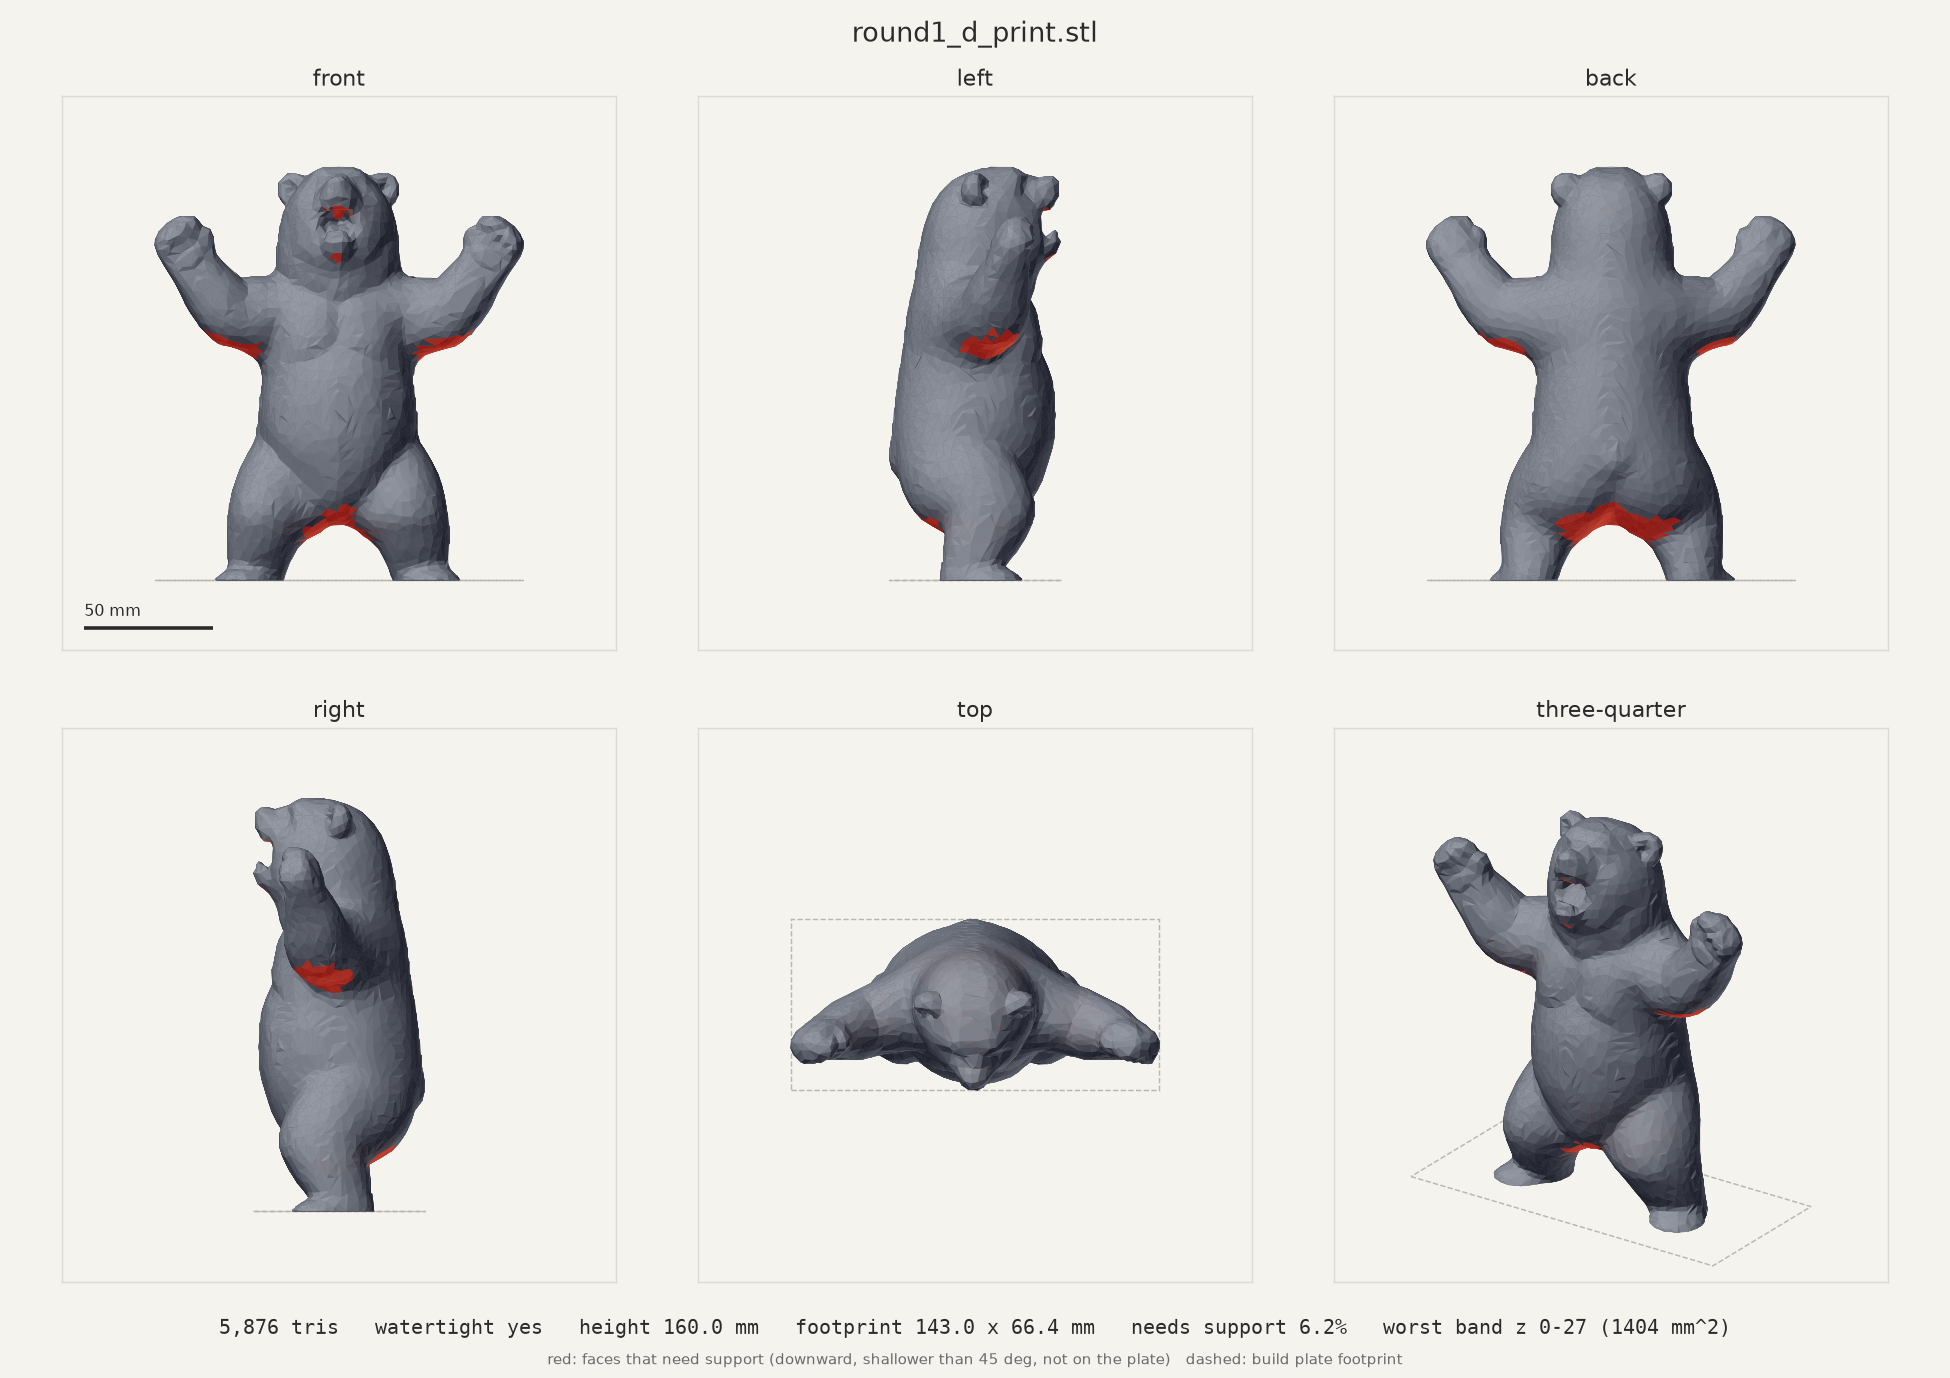
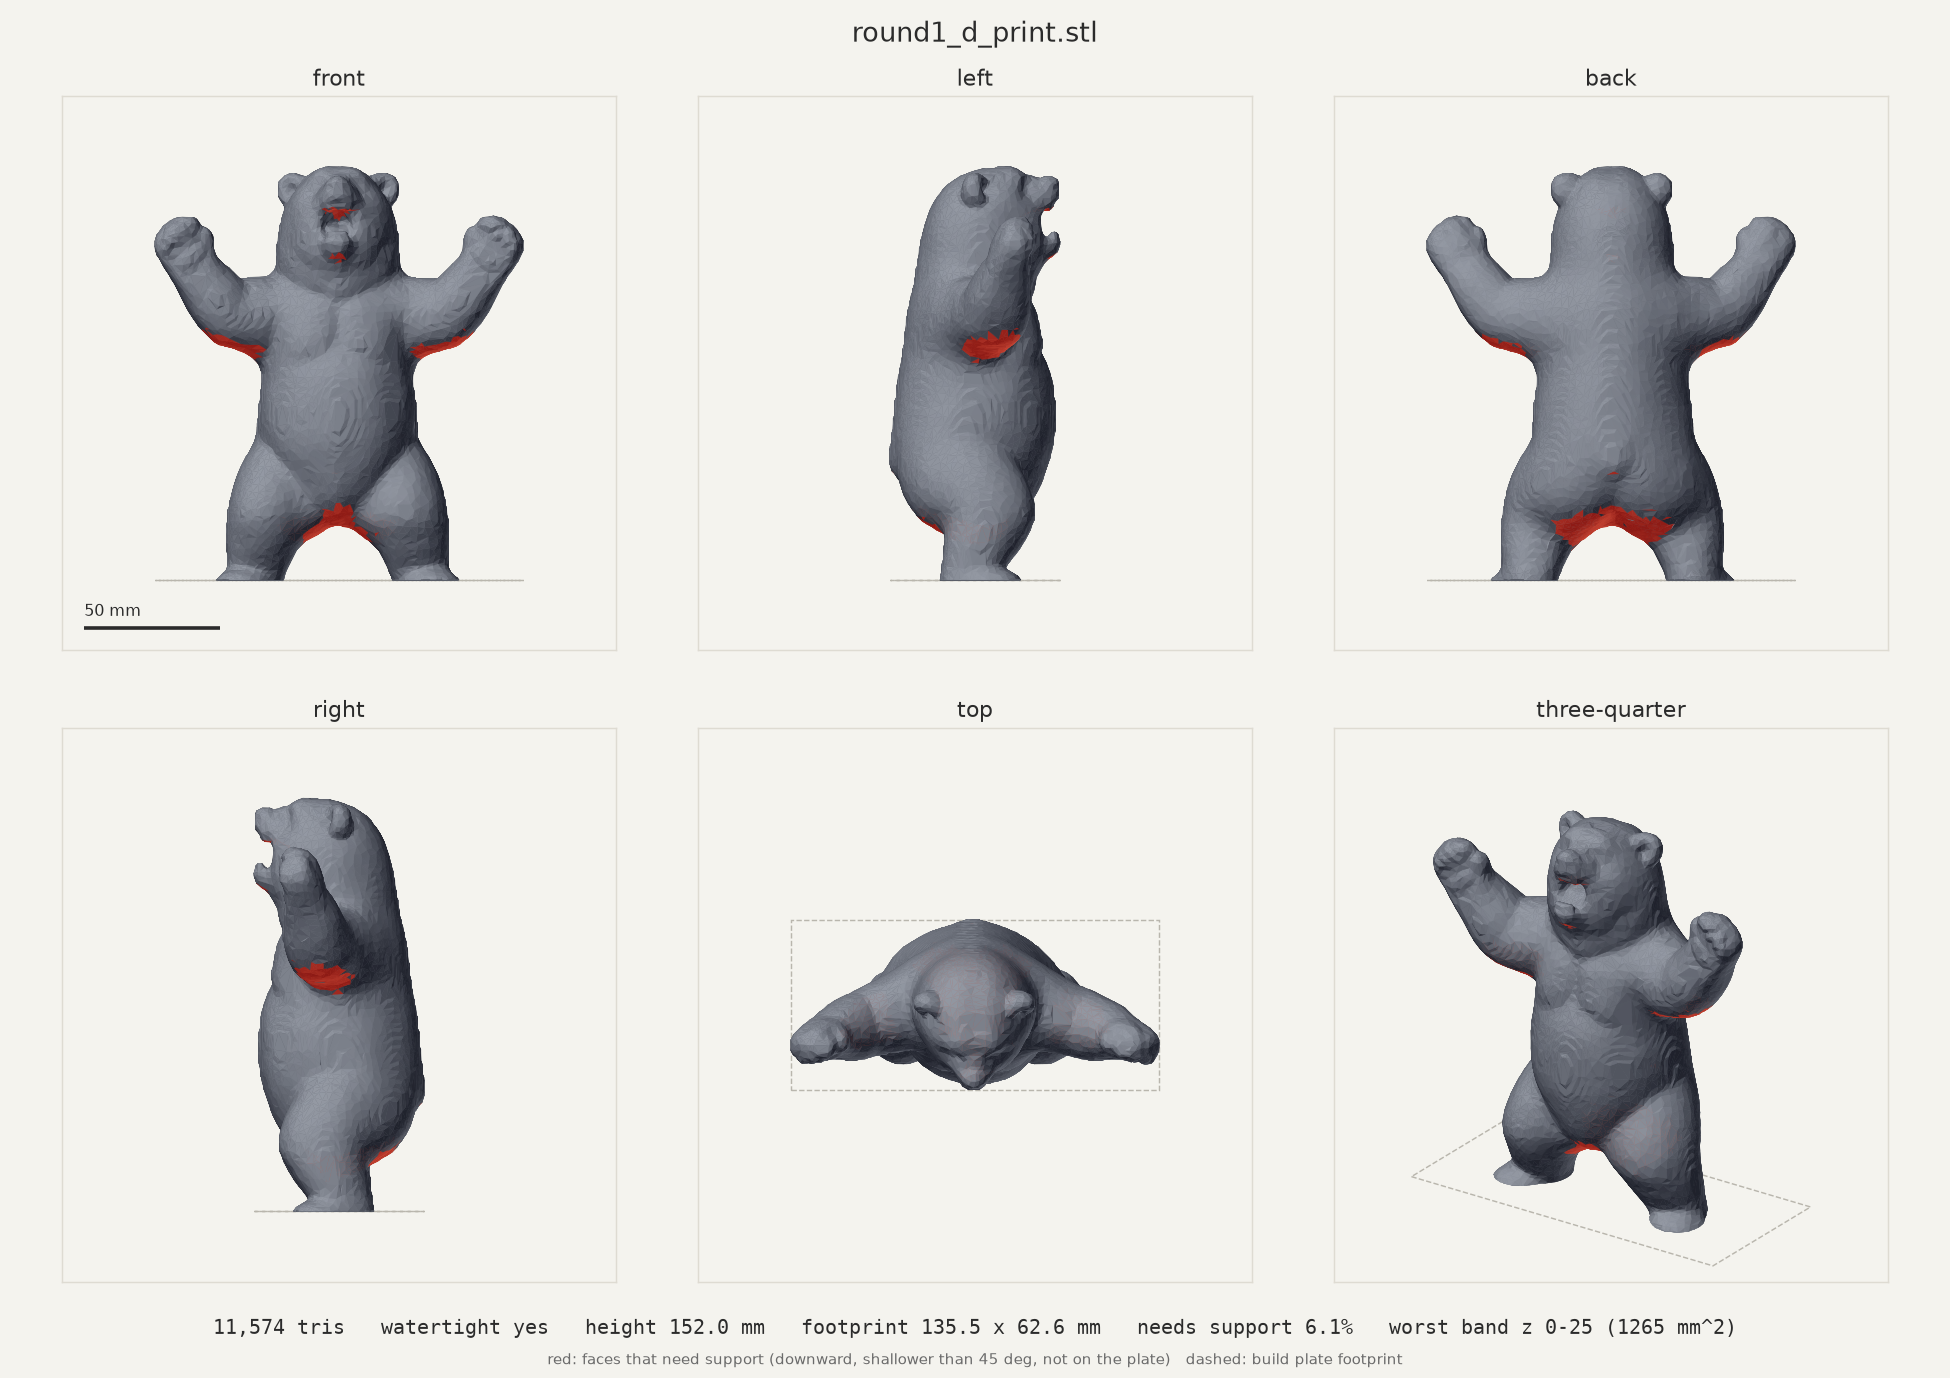
Mesh tools: 12k-face default, degenerate-face fix in voxel remesh, batch tolerates bad files, README→MESH.md
Claude-Session: https://claude.ai/code/session_014gEugCYVrNUDcqZ5JZgWFF

diff --git a/tools/mesh_repair.py b/tools/mesh_repair.py
@@ -34,10 +34,11 @@ Steps, in order, each one reported as it runs:
 Then a before/after table and an STL. Exit code is check_mesh's: 0 if the
 result is watertight with under 5% of its surface needing support.
 
-With --open-base the mesh is scaled to --height plus --base before the cut,
-so the printed part is --height tall. Without --height, --pitch is in the
-file's own units and defaults to the same fraction of the model as 0.6 mm
-is of a 160 mm print.
+With --open-base the bottom --base mm come out of --height: the print is
+--height minus --base tall, with the proportions of a --height bear. Without
+--height, --pitch is in the file's own units and defaults to the same
+fraction of the model as 0.6 mm is of a 160 mm print. A bare --views writes
+the sheet beside the STL.
 
     pip install trimesh manifold3d numpy scipy scikit-image fast_simplification pymeshfix
 """
@@ -53,7 +54,7 @@ import trimesh
 sys.path.insert(0, str(Path(__file__).resolve().parents[1]))
 import check_mesh as cm  # noqa: E402
 
-DEFAULT_FACES = 6000
+DEFAULT_FACES = 12000      # 6000 flattens the open jaw; 12000 keeps it readable
 DEFAULT_BASE = 8.0
 DEFAULT_PITCH = 0.6        # mm at print scale: about one nozzle width
 REFERENCE_HEIGHT = 160.0   # the height DEFAULT_PITCH is quoted at
@@ -165,6 +166,15 @@ def voxel_remesh(mesh, pitch, close=CLOSE_VOXELS):
     del field
     verts = trimesh.transform_points(verts - pad, grid.transform)
     out = trimesh.Trimesh(verts, faces[:, ::-1], process=True)
+    # where the isosurface passes exactly through a grid node, marching cubes
+    # emits coincident vertices; merged, they leave zero-area faces whose
+    # edges are shared 4 or 6 ways and the mesh is no longer watertight
+    n = len(out.faces)
+    out.update_faces(out.nondegenerate_faces())
+    out.update_faces(out.unique_faces())
+    out.remove_unreferenced_vertices()
+    if len(out.faces) != n:
+        log("remesh", f"dropped {n - len(out.faces)} zero-area/duplicate faces from marching cubes")
     if out.body_count > 1:
         parts = sorted(out.split(only_watertight=False), key=lambda p: len(p.faces), reverse=True)
         log("remesh", f"marching cubes produced {len(parts)} shells; kept the largest")
@@ -307,7 +317,7 @@ def table(before, after, openings):
     row("euler", f"{before['euler']}", f"{after['euler']}")
     row("manifold3d", before["manifold"], after["manifold"])
     row("volume", vol(before), vol(after))
-    row("height", f"{before['height']:.1f} mm", f"{after['height']:.1f} mm")
+    row("printed height", f"{before['height']:.1f} mm", f"{after['height']:.1f} mm")
     row("footprint", fp(before), fp(after))
     row("needs support", f"{before['unsupported_pct']:.2f}%", f"{after['unsupported_pct']:.2f}%")
     row("base openings", "-", str(openings) if openings is not None else "-")
@@ -346,12 +356,13 @@ def repair(path, out, faces=DEFAULT_FACES, height=None, base=None, up="auto",
     before = measure_all(mesh, limit)
     log("before", validation_line(validate(mesh)))
 
-    # cut first, then the target height is the height you get
-    work_height = (height + base) if (height and base) else height
+    # the base cut comes out of --height: the print is height - base tall
+    work_height = height
     if height:
         scale_and_place(mesh, work_height)
-        log("scale", f"to {work_height:g} mm"
-                     + (f" ({height:g} + {base:g} mm to be cut off)" if base else ""))
+        log("scale", f"to {height:g} mm"
+                     + (f" (bottom {base:g} mm to be cut off; printed height "
+                        f"{height - base:g} mm)" if base else ""))
     pitch = pitch if pitch is not None else default_pitch(mesh, height)
 
     mesh = largest_component(mesh)
@@ -380,8 +391,8 @@ def repair(path, out, faces=DEFAULT_FACES, height=None, base=None, up="auto",
     after = measure_all(mesh, limit)
     table(before, after, openings)
     if height and base:
-        print(f"\n  note: 'after' was scaled to {work_height:g} mm before the {base:g} mm cut, "
-              f"so it is {100 * base / height:.0f}% larger than 'before' at the same height")
+        print(f"\n  note: printed height is {height:g} - {base:g} = {height - base:g} mm; "
+              f"the base cut comes out of --height, not on top of it")
 
     out = Path(out)
     out.parent.mkdir(parents=True, exist_ok=True)
@@ -412,15 +423,19 @@ def main():
                     help="up axis in the file (auto: y for .glb/.gltf, else z)")
     ap.add_argument("--limit", type=float, default=cm.LIMIT_DEG,
                     help="overhang threshold in degrees")
-    ap.add_argument("--views", help="also render a six-view sheet of the result to this png")
+    ap.add_argument("--views", nargs="?", const="", metavar="PNG",
+                    help="also render a six-view sheet of the result (default: "
+                         "<out>_views.png beside the STL)")
     args = ap.parse_args()
 
     mesh, after, method = repair(args.path, args.out, args.faces, args.height,
                                  args.base if args.open_base else None, args.up,
                                  args.method, args.pitch, args.limit)
-    if args.views:
+    if args.views is not None:
         import mesh_views
-        png, _, _ = mesh_views.render(args.out, args.views, up="z", limit=args.limit)
+        out = Path(args.out)
+        views = args.views or out.with_name(out.stem + "_views.png")
+        png, _, _ = mesh_views.render(str(out), views, up="z", limit=args.limit)
         print(f"wrote {png}\n")
     return 0 if (after["watertight"] and after["unsupported_pct"] < 5.0) else 1
 

diff --git a/tools/mesh_batch.py b/tools/mesh_batch.py
@@ -3,13 +3,17 @@
 mesh_batch.py — check and render every mesh in a directory, then rank them.
 
     python tools/mesh_batch.py outputs/round2
-    python tools/mesh_batch.py outputs/round2 --height 160 --ext glb stl
+    python tools/mesh_batch.py outputs/round2 --height 160 --ext glb
 
 Writes <name>_views.png beside each mesh and <dir>/mesh_report.md with one
 row per mesh — triangles, watertight, height, % needing support, the band
 where the support is — sorted so the most printable candidate is on top.
 Stage 2 produces a pile of these; this is how you pick one without opening
 each in a viewer.
+
+Takes .glb and .stl side by side by default (Y-up and Z-up respectively, via
+check_mesh's auto-detection). A file that fails to load — half-written,
+empty, not a mesh — gets a "failed" row and the batch carries on.
 """
 
 import argparse
@@ -48,8 +52,8 @@ def main():
     ap.add_argument("dir")
     ap.add_argument("--height", type=float, default=160.0,
                     help="scale every mesh to this height in mm before measuring (default 160)")
-    ap.add_argument("--ext", nargs="+", default=["glb"],
-                    help="extensions to include (default: glb)")
+    ap.add_argument("--ext", nargs="+", default=["glb", "stl"],
+                    help="extensions to include (default: glb stl)")
     ap.add_argument("--up", choices=cm.UP_CHOICES, default="auto")
     ap.add_argument("--limit", type=float, default=cm.LIMIT_DEG)
     args = ap.parse_args()
@@ -60,17 +64,21 @@ def main():
     if not files:
         raise SystemExit(f"no {'/'.join(args.ext)} files in {root}")
 
+    # a.glb and a.stl side by side must not overwrite each other's sheet
+    stems = [p.stem for p in files]
     results = []
     for path in files:
         t0 = time.time()
+        tag = f"{path.stem}_{path.suffix.lstrip('.')}" if stems.count(path.stem) > 1 else path.stem
         try:
-            png, info, up = mesh_views.render(path, height=args.height, up=args.up,
-                                              limit=args.limit)
+            png, info, up = mesh_views.render(path, out=path.with_name(tag + "_views.png"),
+                                              height=args.height, up=args.up, limit=args.limit)
             results.append((path.name, info, png, None))
             print(f"{path.name:<40} {info['faces']:>9,} tris  watertight "
                   f"{'yes' if info['watertight'] else 'no ':<3}  support "
                   f"{info['unsupported_pct']:5.1f}%   ({time.time() - t0:.1f} s)")
-        except Exception as e:  # one bad file shouldn't sink the batch
+        except (Exception, SystemExit) as e:  # one bad file shouldn't sink the batch
+            # SystemExit: check_mesh.load raises it for "nothing mesh-shaped"
             results.append((path.name, None, None, f"{type(e).__name__}: {e}"))
             print(f"{path.name:<40} FAILED {type(e).__name__}: {e}")
 

diff --git a/tools/MESH.md b/tools/MESH.md
@@ -30,8 +30,12 @@ The fix is volumetric. Rasterise the shell into a voxel grid, close small
 gaps morphologically, flood-fill the interior to a solid, and pull a fresh
 surface out with marching cubes over the smoothed occupancy field. A
 marching-cubes isosurface of a padded scalar field is closed and manifold by
-construction. manifold3d then confirms it (`NoError`), which is also the bar
-for the base-opening boolean.
+construction, with one caveat the tool handles: where the surface passes
+exactly through a grid node, marching cubes emits coincident vertices that
+merge into zero-area faces, so those are dropped before validation.
+manifold3d then confirms the result (`NoError`), which is also the bar for
+the base-opening boolean. Verified watertight at 140, 150, 160, 170, 180 and
+200 mm.
 
 MeshFix (`--method meshfix`) also produced a valid solid on this mesh, in the
 same time, and keeps the original surface rather than a resampled one. It is
@@ -40,43 +44,43 @@ its guarantee does not depend on the input.
 
 ## Result on round1_d
 
-`python tools/mesh_repair.py outputs/scratch/mesh_round1_d.glb --out outputs/stage3_print/round1_d/round1_d_print.stl --height 160 --open-base`
+`python tools/mesh_repair.py outputs/scratch/mesh_round1_d.glb --out outputs/stage3_print/round1_d/round1_d_print.stl --height 160 --open-base --views`
 
-| | before | after (voxel, 0.6 mm, 6000 faces) |
+| | before | after (voxel 0.6 mm, 12,000 faces, base cut) |
 |---|---|---|
-| faces | 271,556 | 5,876 |
+| faces | 271,556 | 11,574 |
 | bodies | 1 (+873 debris) | 1 |
 | watertight / winding | no / no | yes / yes |
 | Euler | 349 | 2 |
 | manifold3d | NotManifold | NoError |
-| volume | n/a (open) | 404.6 cm³ |
-| height | 160.0 mm | 160.0 mm |
-| footprint | 135.9 × 62.7 mm | 143.0 × 66.4 mm (scaled 5% up before the 8 mm cut) |
-| needs support | 8.72 % | 6.16 %, worst band z 0–27 mm |
-| base openings | – | 2 (one per foot, ≈ 26 × 31 mm) |
+| volume | n/a (open) | 348.7 cm³ |
+| printed height | 160.0 mm | 152.0 mm (160 − 8 mm cut) |
+| footprint | 135.9 × 62.7 mm | 135.5 × 62.6 mm |
+| needs support | 8.72 % | 6.15 %, worst band z 0–25 mm |
+| base openings | – | 2 (one per foot, ≈ 25 × 30 mm) |
 
-Runs in about 8 s. The support that remains is the underarms, the crotch and
+Runs in about 8 s. The support that remains is the crotch, the underarms and
 the underside of the muzzle; the sheet tints those faces red. The 5 % gate is
 not met yet; that is a pose question, not a repair question.
 
 ## Defaults and what they cost
 
 - **Pitch 0.6 mm** at print scale (about one nozzle width; `--pitch`). Grid
-  is ~240 × 110 × 280 voxels at 160 mm; 0.4 mm is 3× slower and needs the
+  is ~230 × 105 × 270 voxels at 160 mm; 0.4 mm is 3× slower and needs the
   closing radius widened, which the tool does on its own when the flood fill
   leaks. Because a voxel the surface passes through counts as solid, the
-  remeshed skin grows by about half a pitch; the tool rescales to the target
-  height afterwards, so the residual is only that thin features are ~0.6 mm
-  fatter relative to the body.
-- **Decimation 6000 faces** (`--faces`). At 6000 the open jaw collapses to a
-  slit; 12,000 keeps it readable, 20,000 keeps the teeth. See
+  remeshed skin grows by about half a pitch; the tool rescales to `--height`
+  afterwards, so the residual is only that thin features are ~0.6 mm fatter
+  relative to the body.
+- **Decimation 12,000 faces** (`--faces`). At 6,000 the open jaw collapses to
+  a slit; 12,000 keeps it readable, 20,000 keeps the teeth. See
   `outputs/stage3_print/round1_d/round1_d_faces_ladder.png`. Decimation is
   validated; if it breaks the solid it retries gentler and finally keeps the
   dense mesh.
-- **Open base 8 mm** (`--open-base`, `--base`). The mesh is scaled to
-  `--height + --base` before the cut, so the printed part is `--height` tall
-  and 5 % larger than the raw at the same height. Change `work_height` in
-  `repair()` if the cut should come out of the 160 mm instead.
+- **Open base 8 mm** (`--open-base`, `--base`). The cut comes out of
+  `--height`: the model is scaled to 160 mm, the bottom 8 mm are removed, and
+  the print is 152 mm tall with the proportions of a 160 mm bear. The table's
+  `printed height` row is the height of the STL.
 
 ## The Y-up gotcha
 
@@ -95,18 +99,20 @@ python check_mesh.py <mesh> [--height 160] [--up auto|y|z] [--limit 45] [--expor
     exit 0 only if watertight and < 5 % needs support.
 
 python tools/mesh_repair.py <mesh> --out out.stl [--height 160] [--open-base] [--base 8]
-        [--method voxel|meshfix|fill|none] [--pitch 0.6] [--faces 6000] [--views sheet.png]
+        [--method voxel|meshfix|fill|none] [--pitch 0.6] [--faces 12000] [--views [sheet.png]]
     orient, scale, keep largest shell, remesh, validate (watertight / winding /
     Euler / manifold3d), decimate, fix winding, optional base cut, before/after
-    table, STL. Same exit code as check_mesh.
+    table, STL. A bare --views writes <out>_views.png beside the STL. Same exit
+    code as check_mesh.
 
 python tools/mesh_views.py <mesh> [--height 160] [--out sheet.png] [--limit 45] [--render-faces 60000]
     six orthographic views (front, left, back, right, top, three-quarter) on one
     sheet, red = needs support, footer with the check_mesh numbers.
 
 python tools/mesh_batch.py <dir> [--height 160] [--ext glb stl]
-    mesh_views for every mesh in a directory plus <dir>/mesh_report.md ranked
-    watertight-first, then least support.
+    mesh_views for every .glb and .stl in a directory plus <dir>/mesh_report.md
+    ranked watertight-first, then least support. Files that fail to load get a
+    "failed" row; a.glb and a.stl side by side get a_glb_views.png / a_stl_views.png.
 ```
 
 Views use Blender's naming: front looks at −Y, left from −X, right from +X,

diff --git a/tools/README.md b/tools/README.md
@@ -38,3 +38,11 @@ strip so a candidate can be picked by id. Also writes a half-size
 
 **`../check_mesh.py`** — Stage 3 printability report for a mesh (watertight,
 winding, volume, footprint, height, overhang census). Lives at the repo root.
+
+**`mesh_repair.py`, `mesh_views.py`, `mesh_batch.py`** — the rest of Stage 3.
+`mesh_repair.py` turns a Hunyuan3D GLB into a validated, decimated, scaled
+STL with an optional open base (volumetric remesh by default; hole filling
+cannot fix this class of mesh). `mesh_views.py` renders a six-view sheet with
+the faces that need support tinted red. `mesh_batch.py` runs the sheet over a
+directory and ranks the candidates. Diagnosis, rationale, defaults, CLI and
+the Y-up gotcha are in [`MESH.md`](MESH.md).
